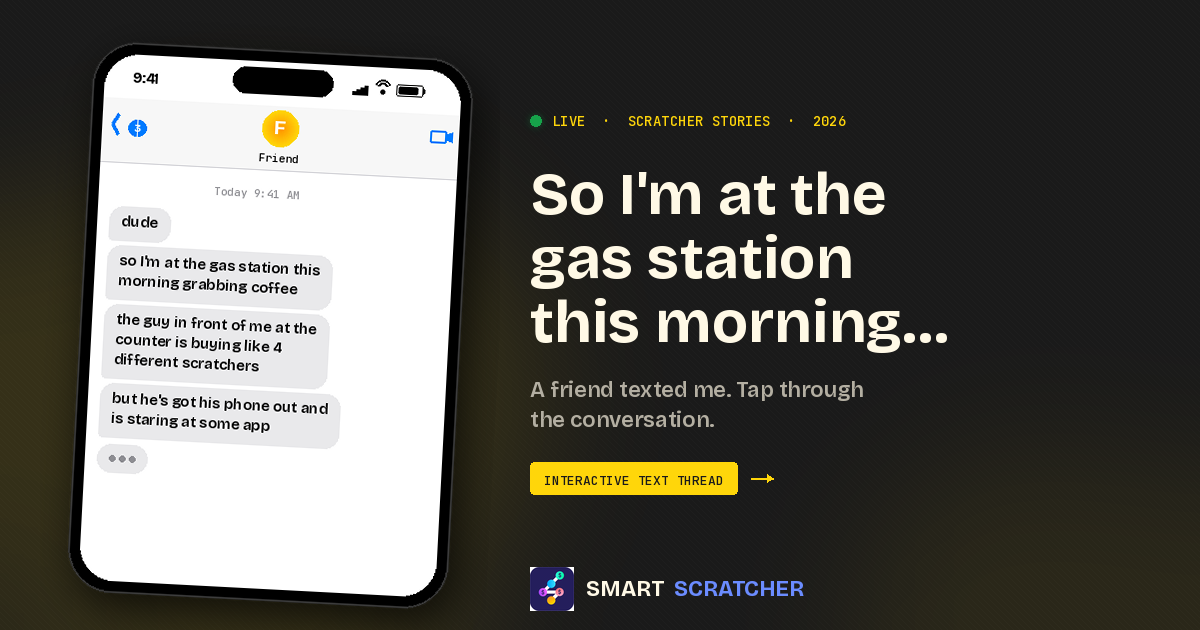
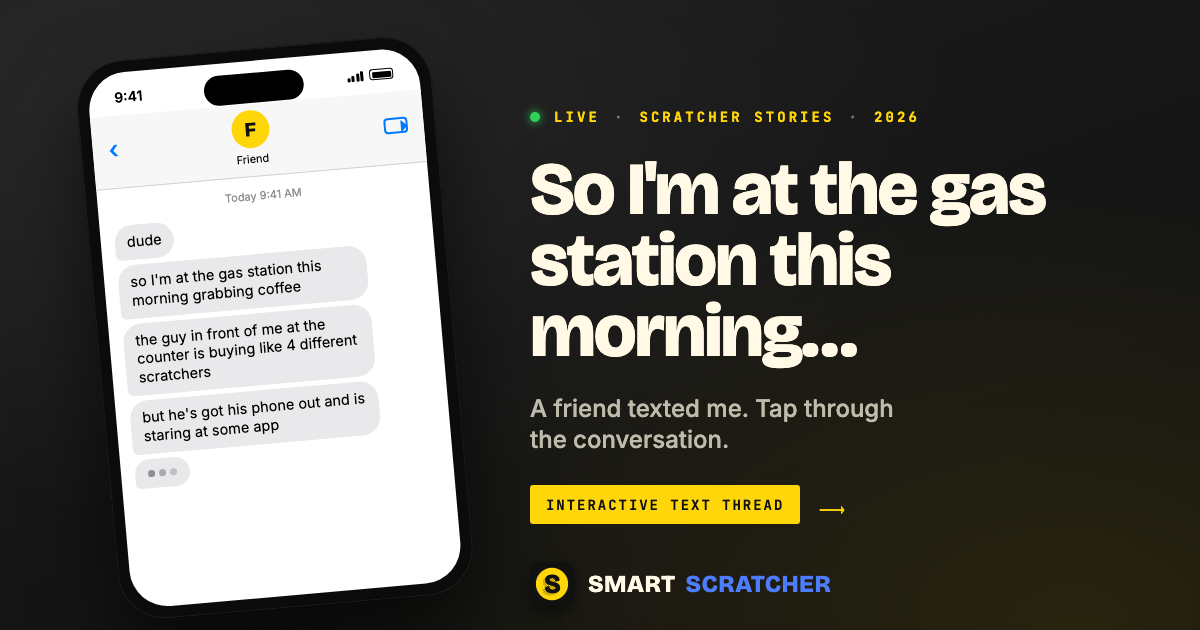
Text-from-a-friend: the friend sends the right store link, new share card
The thread ended with an App Store card for everyone. Now it reads the
phone: Android gets a Google Play card, iPhone/iPad the App Store card,
and on a laptop the friend asks "iphone or android?" with two reply
buttons before sending the link. The App Store URL in the script carried
a literal &amp; that broke the ct campaign tag; fixed.

The yellow box said the app covers Oklahoma, Texas and California and is
"on the App Store"; it now says 19 states and both stores.

Share card rebuilt from a template (share/templates/text-from-a-friend.html,
rendered with share/render.py) so it carries the Letterpress-S mark
instead of the old gradient logo.

diff --git a/share/templates/text-from-a-friend.html b/share/templates/text-from-a-friend.html
@@ -1,0 +1,194 @@
+<!DOCTYPE html>
+<html>
+<head>
+<meta charset="UTF-8">
+<link rel="preconnect" href="https://fonts.googleapis.com">
+<link rel="preconnect" href="https://fonts.gstatic.com" crossorigin>
+<link href="https://fonts.googleapis.com/css2?family=Bricolage+Grotesque:opsz,wght@12..96,500;12..96,700;12..96,800&family=Inter:wght@400;500;600;700&family=JetBrains+Mono:wght@400;500;700&display=swap" rel="stylesheet">
+<style>
+  :root {
+    --ink: #111111;
+    --cream: #fff9e6;
+    --cream-dim: rgba(255,249,230,0.72);
+    --yellow: #ffd60a;
+    --blue: #4d7cff;
+    --green: #30d158;
+    --imessage-gray: #e9e9eb;
+  }
+  * { margin: 0; padding: 0; box-sizing: border-box; }
+  html, body {
+    width: 1200px; height: 630px; overflow: hidden;
+    background: #161616;
+    background-image:
+      radial-gradient(ellipse at 15% 20%, rgba(255,255,255,0.06), transparent 55%),
+      radial-gradient(ellipse at 90% 100%, rgba(255,214,10,0.10), transparent 50%),
+      linear-gradient(160deg, #1d1d1d 0%, #0f0f0f 100%);
+    color: var(--cream);
+    font-family: 'Inter', system-ui, sans-serif;
+  }
+
+  /* ---------- phone ---------- */
+  .phone {
+    position: absolute;
+    left: 92px; top: 48px;
+    width: 356px; height: 560px;
+    background: #0b0b0b;
+    border-radius: 48px;
+    padding: 12px;
+    transform: rotate(-5deg);
+    transform-origin: 50% 40%;
+    box-shadow:
+      0 40px 80px rgba(0,0,0,0.6),
+      0 0 0 1px rgba(255,255,255,0.08) inset;
+  }
+  .screen {
+    width: 100%; height: 100%;
+    background: #fff;
+    border-radius: 38px;
+    overflow: hidden;
+    position: relative;
+    color: #000;
+    font-family: -apple-system, 'Inter', sans-serif;
+  }
+  .island {
+    position: absolute; top: 12px; left: 50%; transform: translateX(-50%);
+    width: 100px; height: 30px; border-radius: 20px; background: #000;
+  }
+  .status {
+    display: flex; justify-content: space-between; align-items: center;
+    padding: 16px 26px 0;
+    font-size: 14px; font-weight: 600;
+  }
+  .status .right { display: flex; gap: 6px; align-items: center; }
+  .status .bars { display: inline-flex; align-items: flex-end; gap: 1.5px; }
+  .status .bars i { display: block; width: 3px; background: #000; border-radius: 1px; }
+  .status .batt {
+    width: 24px; height: 11px; border: 1.5px solid #000; border-radius: 3px; position: relative;
+  }
+  .status .batt::after { content: ''; position: absolute; inset: 1.5px; background: #000; border-radius: 1px; }
+  .chat-head {
+    margin-top: 10px;
+    padding: 6px 16px 10px;
+    background: rgba(247,247,247,0.95);
+    border-bottom: 0.5px solid #d1d1d6;
+    display: flex; align-items: center; justify-content: space-between;
+  }
+  .chat-head .back { color: #007aff; font-size: 24px; font-weight: 500; line-height: 1; }
+  .chat-head .who { display: flex; flex-direction: column; align-items: center; gap: 4px; }
+  .avatar {
+    width: 38px; height: 38px; border-radius: 50%;
+    background: var(--yellow); color: #111;
+    display: flex; align-items: center; justify-content: center;
+    font-family: 'Bricolage Grotesque', sans-serif; font-weight: 800; font-size: 20px;
+  }
+  .chat-head .name { font-size: 11px; color: #000; }
+  .chat-head .cam { width: 24px; height: 16px; border: 2px solid #007aff; border-radius: 4px; position: relative; }
+  .chat-head .cam::after { content: ''; position: absolute; right: -8px; top: 1px; border: 6px solid transparent; border-left: 7px solid #007aff; }
+  .thread { padding: 10px 14px 0; display: flex; flex-direction: column; gap: 5px; }
+  .ts { text-align: center; font-size: 11px; color: #8e8e93; margin: 2px 0 6px; }
+  .bubble {
+    background: var(--imessage-gray); color: #000;
+    border-radius: 18px; border-bottom-left-radius: 6px;
+    padding: 8px 12px; font-size: 14.5px; line-height: 1.3;
+    max-width: 82%; align-self: flex-start;
+  }
+  .typing { display: inline-flex; gap: 4px; padding: 11px 13px; }
+  .typing i { width: 7px; height: 7px; border-radius: 50%; background: #8e8e93; display: block; }
+  .typing i:nth-child(2) { opacity: 0.7; } .typing i:nth-child(3) { opacity: 0.45; }
+
+  /* ---------- copy ---------- */
+  .copy {
+    position: absolute; left: 530px; top: 106px; width: 600px;
+  }
+  .kicker {
+    font-family: 'JetBrains Mono', monospace;
+    font-size: 14px; font-weight: 700; letter-spacing: 0.22em; text-transform: uppercase;
+    color: var(--yellow);
+    display: inline-flex; align-items: center; gap: 14px;
+  }
+  .kicker .dot { width: 10px; height: 10px; border-radius: 50%; background: var(--green); box-shadow: 0 0 10px var(--green); }
+  .kicker .sep { color: rgba(255,249,230,0.4); }
+  h1 {
+    margin-top: 28px;
+    font-family: 'Bricolage Grotesque', sans-serif;
+    font-weight: 800; font-size: 74px; line-height: 0.96; letter-spacing: -2px;
+    color: var(--cream);
+  }
+  .sub {
+    margin-top: 26px;
+    font-size: 24px; line-height: 1.3; font-weight: 500;
+    color: var(--cream-dim);
+    max-width: 380px;
+  }
+  .btn {
+    margin-top: 30px;
+    display: inline-flex; align-items: center; gap: 18px;
+  }
+  .btn .pill {
+    font-family: 'JetBrains Mono', monospace; font-weight: 700; font-size: 14px; letter-spacing: 0.14em;
+    text-transform: uppercase; color: #111; background: var(--yellow);
+    padding: 11px 16px 10px; border-radius: 3px;
+  }
+  .btn .arrow { color: var(--yellow); font-size: 26px; line-height: 1; }
+
+  /* ---------- brand ---------- */
+  .brand {
+    position: absolute; left: 530px; top: 562px;
+    display: flex; align-items: center; gap: 14px;
+  }
+  .brand .tile {
+    width: 44px; height: 44px; border-radius: 10px; overflow: hidden;
+    box-shadow: 0 6px 16px rgba(0,0,0,0.45);
+    background: #111;
+    display: flex; align-items: center; justify-content: center;
+  }
+  .brand .words {
+    font-family: 'Bricolage Grotesque', sans-serif; font-weight: 800; font-size: 24px; letter-spacing: 0.02em;
+    display: inline-flex; gap: 10px;
+  }
+  .brand .words .a { color: var(--cream); }
+  .brand .words .b { color: var(--blue); }
+</style>
+</head>
+<body>
+
+<div class="phone">
+  <div class="screen">
+    <div class="island"></div>
+    <div class="status">
+      <span>9:41</span>
+      <span class="right">
+        <span class="bars"><i style="height:4px"></i><i style="height:6px"></i><i style="height:8px"></i><i style="height:10px"></i></span>
+        <span class="batt"></span>
+      </span>
+    </div>
+    <div class="chat-head">
+      <span class="back">‹</span>
+      <span class="who"><span class="avatar">F</span><span class="name">Friend</span></span>
+      <span class="cam"></span>
+    </div>
+    <div class="thread">
+      <div class="ts">Today 9:41 AM</div>
+      <div class="bubble">dude</div>
+      <div class="bubble">so I'm at the gas station this morning grabbing coffee</div>
+      <div class="bubble">the guy in front of me at the counter is buying like 4 different scratchers</div>
+      <div class="bubble">but he's got his phone out and is staring at some app</div>
+      <div class="bubble typing"><i></i><i></i><i></i></div>
+    </div>
+  </div>
+</div>
+
+<div class="copy">
+  <div class="kicker"><span class="dot"></span> Live <span class="sep">·</span> Scratcher Stories <span class="sep">·</span> 2026</div>
+  <h1>So I'm at the gas station this morning…</h1>
+  <div class="sub">A friend texted me. Tap through the conversation.</div>
+  <div class="btn"><span class="pill">Interactive text thread</span><span class="arrow">⟶</span></div>
+</div>
+
+<div class="brand">
+  <span class="tile"><svg width="44" height="44" viewBox="0 0 120 120" fill="none" xmlns="http://www.w3.org/2000/svg"><rect width="120" height="120" fill="#111111"/><defs><pattern id="hbl" width="4" height="4" patternUnits="userSpaceOnUse" patternTransform="rotate(45)"><line x1="0" y1="0" x2="0" y2="4" stroke="#111111" stroke-width="1.7"/></pattern></defs><circle cx="60" cy="60" r="44" fill="#ffd60a"/><text x="55" y="91" font-family="Bricolage Grotesque" font-size="74" font-weight="800" fill="url(#hbl)" text-anchor="middle">S</text><text x="61" y="85" font-family="Bricolage Grotesque" font-size="74" font-weight="800" fill="#111111" text-anchor="middle">S</text></svg></span>
+  <span class="words"><span class="a">SMART</span><span class="b">SCRATCHER</span></span>
+</div>
+
+</body>
+</html>

diff --git a/articles/text-from-a-friend.html b/articles/text-from-a-friend.html
@@ -1442,7 +1442,7 @@ h1.headline em{
     <div class="cta-row">
       <span class="cta-tag"><span class="dot"></span>FYI · The App Is Real</span>
       <h2>Yes, you can <em>actually</em> download it.</h2>
-      <p>SmartScratcher tells you which scratch-offs in Oklahoma, Texas, and California still have real prizes worth chasing. Free to start, with deeper rankings and analysis on the $2.99/month tier (3-day free trial). The conversation above is fictional — but the app is on the App Store right now.</p>
+      <p>SmartScratcher tells you which scratch-offs in 19 states still have real prizes worth chasing. Free to start, with deeper rankings and analysis on the $2.99/month tier (3-day free trial). The conversation above is fictional — but the app is on the App Store and Google Play right now.</p>
       <span class="store-pair" style="display:inline-flex;flex-wrap:wrap;gap:12px;vertical-align:top;max-width:100%"><a href="https://apps.apple.com/app/apple-store/id6737247458?pt=127399951&amp;ct=web-article&amp;mt=8" class="cta-btn">
         Download on App Store
         <svg viewBox="0 0 16 16" fill="none" xmlns="http://www.w3.org/2000/svg">
@@ -1612,8 +1612,39 @@ const SCRIPT = {
     messages: [
       { from:'them', text:"anyway, I downloaded it on the drive home lol" },
       { from:'them', text:"wanted to send it to you because I know you play sometimes" },
+    ],
+    next: 'pickStore',
+  },
+  // The friend sends the link for the reader's phone. On an iPhone or an Android
+  // phone we already know which; anywhere else (a laptop) the friend just asks.
+  pickStore: {
+    type: 'auto',
+    resolve: () => ({ ios:'sendAppStore', android:'sendPlay' }[detectStore()] || 'askPhone'),
+  },
+  askPhone: {
+    messages: [
+      { from:'them', text:"wait, are you on iphone or android?" },
+    ],
+    next: 'phoneChoice',
+  },
+  phoneChoice: {
+    type: 'choice',
+    options: [
+      { label:'iPhone', text:'iphone', next:'sendAppStore' },
+      { label:'Android', text:'android', next:'sendPlay' },
+    ],
+  },
+  sendAppStore: {
+    messages: [
       { from:'them', text:'here 👇' },
-      { from:'them', type:'link-card' },
+      { from:'them', type:'link-card', store:'ios' },
+    ],
+    next: 'end',
+  },
+  sendPlay: {
+    messages: [
+      { from:'them', text:'here 👇' },
+      { from:'them', type:'link-card', store:'android' },
     ],
     next: 'end',
   },
@@ -1624,7 +1655,21 @@ const SCRIPT = {
 // ENGINE
 // ============================================================
 
-const APP_STORE_URL = 'https://apps.apple.com/app/apple-store/id6737247458?pt=127399951&amp;ct=web-article&amp;mt=8';
+const APP_STORE_URL = 'https://apps.apple.com/app/apple-store/id6737247458?pt=127399951&ct=web-article&mt=8';
+const PLAY_URL = 'https://play.google.com/store/apps/details?id=com.gamingdatasolutions.smartscratcher&referrer=utm_source%3Dsmartscratcherapp.com%26utm_campaign%3Dweb-article';
+const STORES = {
+  ios:     { url: APP_STORE_URL, domain: 'apps.apple.com',  icon: '../favicon/web-app-manifest-192x192.png' },
+  android: { url: PLAY_URL,      domain: 'play.google.com', icon: '../favicon/web-app-manifest-192x192.png' },
+};
+
+// 'ios' / 'android' from the reader's browser, or null when we can't tell.
+function detectStore(){
+  const ua = navigator.userAgent || '';
+  if (/android/i.test(ua)) return 'android';
+  if (/iphone|ipad|ipod/i.test(ua)) return 'ios';
+  if (navigator.platform === 'MacIntel' && navigator.maxTouchPoints > 1) return 'ios'; // iPadOS reports as a Mac
+  return null;
+}
 
 const thread = document.getElementById('thread');
 const replyZone = document.getElementById('reply-zone');
@@ -1658,17 +1703,18 @@ function makeBubble(message, isTail){
   if (lastSender !== message.from) row.classList.add('group-start');
 
   if (message.type === 'link-card'){
+    const store = STORES[message.store] || STORES.ios;
     const card = document.createElement('a');
     card.className = 'link-card';
-    card.href = APP_STORE_URL;
+    card.href = store.url;
     card.target = '_blank';
     card.rel = 'noopener noreferrer';
     card.innerHTML = `
       <div class="link-image">
-        <img class="app-icon-real" src="../favicon/web-app-manifest-192x192.png" width="192" height="192" alt="SmartScratcher app icon">
+        <img class="app-icon-real" src="${store.icon}" width="192" height="192" alt="SmartScratcher app icon">
       </div>
       <div class="link-text">
-        <div class="link-domain">apps.apple.com</div>
+        <div class="link-domain">${store.domain}</div>
         <div class="link-title">SmartScratcher: Lottery Odds</div>
         <div class="link-subtitle">Scratch Ticket Odds &amp; Ratings</div>
       </div>
@@ -1732,6 +1778,11 @@ async function playNode(nodeKey){
   existingChoices.forEach(el => el.remove());
 
   const node = SCRIPT[nodeKey];
+
+  if (node.type === 'auto'){
+    isPlaying = false;
+    return playNode(node.resolve());
+  }
 
   if (node.messages){
     for (let i = 0; i < node.messages.length; i++){
